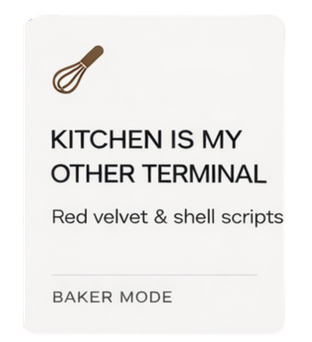
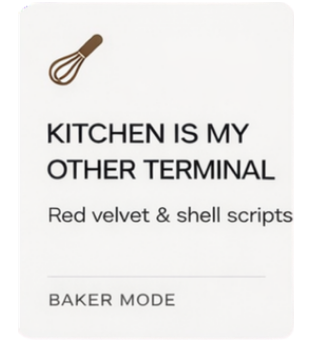
fix: center About video and cards
- Center .content-max-width so full-bleed sections stop shifting left
  on screens wider than about 1480px
- Re-export the card images so each card is centered at a consistent
  size on the same canvas

diff --git a/style.css b/style.css
@@ -562,6 +562,13 @@ header {
   position: relative;
 }
 
+/* Center the capped wrapper on wide screens. Full-bleed sections such as the
+   About video position themselves from it and shift left when it isn't centered. */
+.content-max-width {
+  margin-left: auto;
+  margin-right: auto;
+}
+
 .smooth-scroll #content-scroll {
   position: absolute;
   top: 0;
